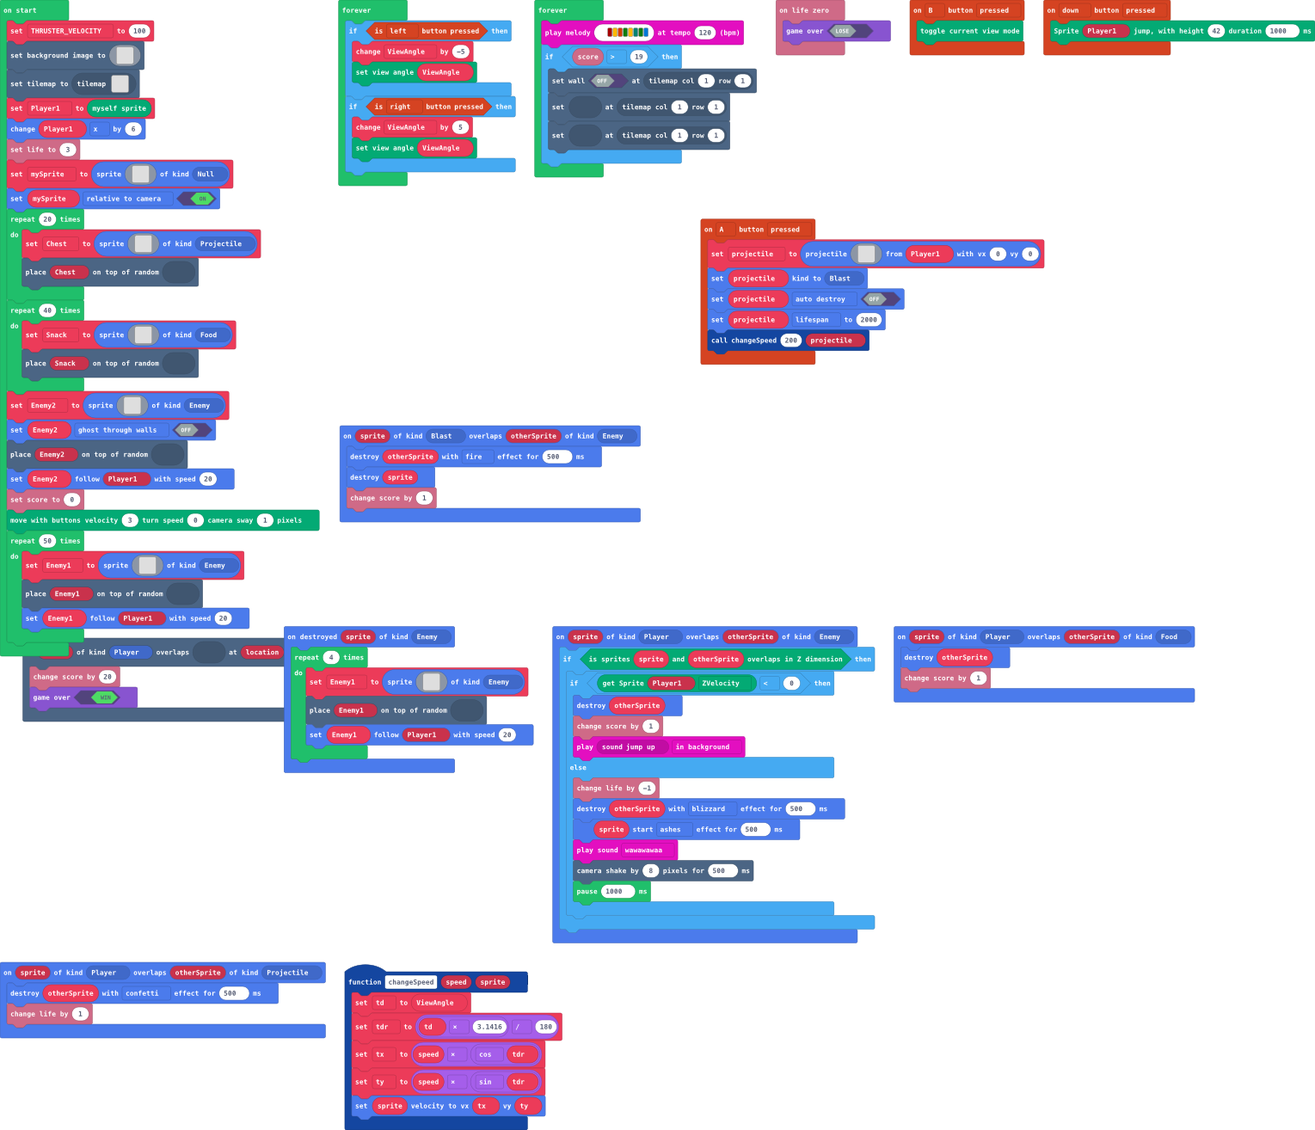
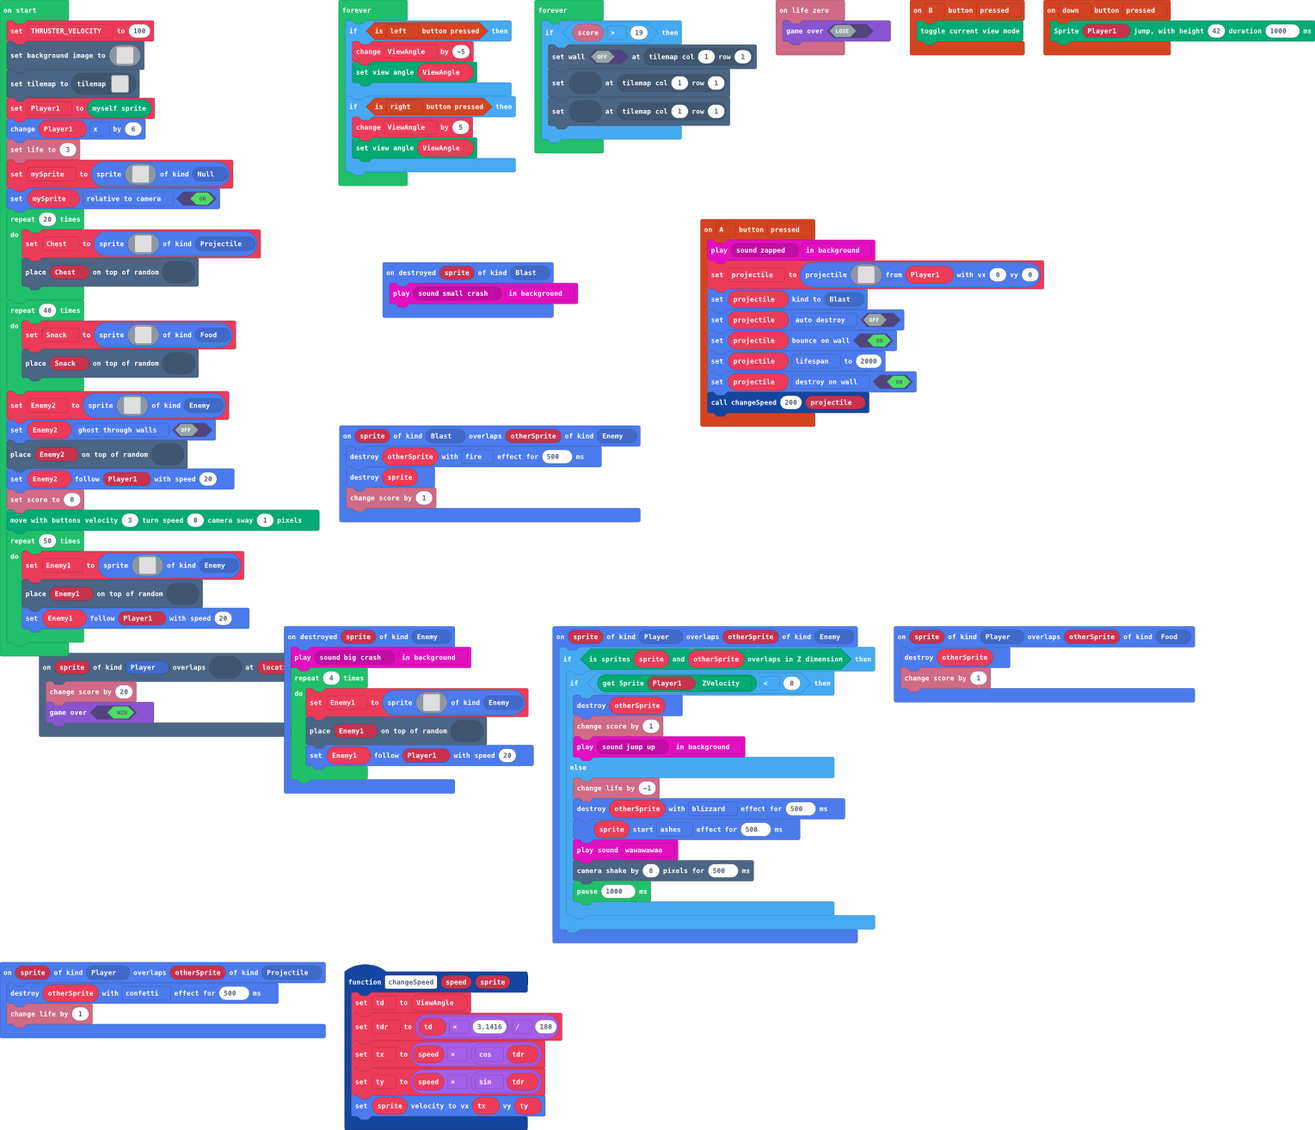
Update main.blocks, main.ts, tilemap.g.jres, tilemap.g.ts

diff --git a/tilemap.g.ts b/tilemap.g.ts
@@ -89,8 +89,27 @@ namespace myTiles {
 . . . . . . . . . . . . . . . . 
 . . . . . . . . . . . . . . . . 
 `, [myTiles.transparency16], TileScale.Sixteen);
+            case "level6":
+            case "level6":return tiles.createTilemap(hex`1000100000000000000000000000000000000000000000000000000000000000000000000000000000000000000000000000000000000000000000000000000000000000000000000000000000000000000000000000000000000000000000000000000000000000000000000000000000000000000000000000000000000000000000000000000000000000000000000000000000000000000000000000000000000000000000000000000000000000000000000000000000000000000000000000000000000000000000000000000000000000000000000000000000000000000000000000000000000000000000000000000000000000000000000000000000000000`, img`
+. . . . . . . . . . . . . . . . 
+. . . . . . . . . . . . . . . . 
+. . . . . . . . . . . . . . . . 
+. . . . . . . . . . . . . . . . 
+. . . . . . . . . . . . . . . . 
+. . . . . . . . . . . . . . . . 
+. . . . . . . . . . . . . . . . 
+. . . . . . . . . . . . . . . . 
+. . . . . . . . . . . . . . . . 
+. . . . . . . . . . . . . . . . 
+. . . . . . . . . . . . . . . . 
+. . . . . . . . . . . . . . . . 
+. . . . . . . . . . . . . . . . 
+. . . . . . . . . . . . . . . . 
+. . . . . . . . . . . . . . . . 
+. . . . . . . . . . . . . . . . 
+`, [myTiles.transparency16], TileScale.Sixteen);
             case "level1":
-            case "level1":return tiles.createTilemap(hex`4600460001010101010101010101010101010101010101010101010101010101010100000000000000000000000000000000000000010101010100000000000000000000000000000000010000000000010000000000000000000000000000000000000000000001000000000000000000000000000000000000000100000001000000000000000101010101010000000101000001000100000000000000010101000100010101010101010100010001010101010101010101010101000000000001000000010000000000000001000000000100000001000000010001000100000001010100000001000000000000000000000100000000000000000000000001000000000000010000000100000000010000010000000001000000010001000100010001000000010000000000010101010101010100000001010100010101010101010101010000000000000100000001000000000000000100000000010000000100010001000100010000000100010000000000000000000001000000000001000100000000000000000000000000000001000000010000000000000001000000000101000001000100010001000100000001000100010101010000000000010000000000010001000000000000000000000000000000010000010100000000000000010000000000010000010001000100000001000000010001000100000100000000000100000100000100010000000000000000000001000000000100000100000000000000000100000000000100000100010001000000010000000100010001000001000000000001000000000001000100000000000000000000000000000001000001000000000000000001000000000001000000000100010000000100000001000101010000010001010101010000000000000001000001010100000000000000000000010000010000000000010000010001010000010000000101000100000001000001010000010000000100010000000000000000000100010000000001010101010101000000000100000100000000000000000100000100000100000001010001000101010101010000000100000001000100000000010100000001000100000000000000000000010100000001000001000000000000000001000001000001000000010000010001000000000000000001000000000000000000000100000000010001000000000000000000000001010000010000010000000000000000010000010000010000000100000100010000000000000000000000000000000001000001000000000100010000000000000000000000000100010101000101010100000000000100000100000100000001000000000100000101010101010101010100000000010000010000000001000100000000000000000000000001010100010000000001000000000001000001000001000000010000000001000000000000000000000001000001000100000100000000010001010101010101010101010000000000000100000000010000000000010000010000010000000100000000010101010101010101010101010000010001010001000000010100000000000000000000000100000000000001000000000100000000000100000100000100000001010101000000000000000000000000000100000100000000010000000101010101010101010101010001000000000000010000000001000000000001000001000001000000010000010101010101010101010101000001000001010101000100000000000000010000000000000100010000000000000100000000010000000000010000010000010000000100000000000000000000000000000000010000010000000001000000000000000100000000000001000100000000000001010100000100000000000100000100000100000001000000000000000000000000000000000100000101010101010000000000010001000000000000010001000000000000000001000001000000000001000001000001000000010000000101010101010101010101010101000001000000000000000000000100010000000000000100010000000000000000010000010101010000010000010000010000000100000001000000000000000000000000000000010001010100000000000001000100000000000101000100000000000000000100000000000100000100000100000100000001000001010000000000000000000000000001000100000000010000000000010001010101010101000001010101010100000001010000000001000001000001000001000000010000010000010101010101010101010101010001000000000100000000000100000000000000000000010000000001000000000100000000010000010001010000010100000100000100000100000000000000000000000000000000000001000001000001000000010101010100000101010100010000000001010000000100000100010000000001000000000001000001000000000000000000000000000000000000010000010000010000000100000001000001000001000100000000000100000001000001000100000000010000000000010000010101010101010101010101010101010101010100000100000100000101000000010100000000010001000000000001000000010000010001000000000100000101010100000000000000000000000000000000000000000000000101000001010101000000000001000000000100010000000000010000000100000100010000000001000000000000000101010101010101010101010101010101010101010101010000000000000000000101010100000001000101000000000100000001000001000100000000010000000000000001000000000000000000000000000000000000000000000100000000000000000101000001000000010000010000010001000000010000010001000000000100000000000000010000000000000000000000000000000000000000000000000000000000000000000000010000000100000100000100010100000100000100010000000001000000000000000101010101010101010101010101010101010100000000000000000100000100000000000100000001000001000001000001000001000001000100000000010000000000000000000000000000000000000000000000000001000000000000000000000001000000000001000000010000010000010000010000010000010001000000000100000000000100000000000000000000000101010101010101010000010000000100000000010101000000010000000100000100000100000100000100000000010000010001000001000000000001010101010101010101000000000000000000000000000000000000000100010101010100000000000001000001000001000001010101000100000000010000000000000000010000000000000000000000000000000000000000010000000000000001000000000000000000000001010000010000010000000000000001000000000100000000000101010100010100000001010101010101010000000000000000000001000000010000000000000000000000010000000100000100000000000000010000000001000000000001000000000001000000010000000000000100000001000000010000000000000100000000000101010101010100000001000001000000000000000100000000010000000000010000000000010101010100000101010101000000000000000100000000000001000000000001000000000000000000010000010000000000000001000000000100000000000100000000000000000000000001000000000000000000000001000101010101010000000000010000000000000000000101000101010101010101010000000001000000000001000000000000000000000000010000000000000101010101010001000000000100000000000100000101010101000000010000000000000000000000000000010000000000010101010100000000000000000101010101010101000000000100000000000000000001010101000100000000010000000100000101010101010101010100000100000000000100000000000000000000000000000000000000000000000001000000000000000000010000000001000100000100000001000001000000000000000001000001000000000001000000000000000000000101010101000000000000000000010101010101010101010100000000010001010001000000010000010000010100000001010000010000000000010000000000000000000001000000010100000000000000000000000000000000000000000000000100000100010000000100000100000101010101010000000100000000000100000000000000000000010000000001000000000000000000000000000101010101010100000001010101000100000001000001000001000000000000000001000000000101010101010100000000000100000000010101010101010101000000000000000000000000000000000000000001000000010000010000010000000000010101010000000000000000000001010101010100000000000000000000000000010000000000000000000000000000000000000000010000000100000100000100000101010100010100000000000000000000000000000000000000000000000000000000000101010101010101010101010101010101010101010100000001000001000001010101000000000000000000000000000000000000010101010101010000000000000000000000000000000000000000000000000000000000000000000000010000010000000000000000000000000000000000000000000001010000000000000101010100000000010100000000000000000000000000000000010000000000000100000101010100000000000000010000010000000000000000000001010000000000000000000001010100000001010000000000000000000001000000000000000000000000000001010000000000000100000100000100000000000000000000010000010100010101010000000001010000000101000000000000000000000000000000000000000000000000000100000001000001000001000001000000000001000000010100000100000000000101000000000101000000010100000001000000000000000000000000000000000000000001000000010000010000010000010000000000000000000100000001000000000000010100000000010100000001010100000000000000000000000100000000010000000000010000000100000100000100000100000000000000000001000000010000010000000001010000000001000000000001000000000000000000000000000000000000000000000100000001000001000001000001000000000000000000010000000100000000000000000101000000010100000000010101010101010101010100000000000000000000000001000000010000010000010000010000000000000000000100000001000000000100000000010000000001000000000001000000000000000001000000000000000000000000010000000100000100000001000100000000000000000001000000010000000101000000000100000000010000000000010000000000000000010000000000000000000000000100000001000001000000010001000000000000000000010000000100000001010001010101000000000100000100000100000000010101000101010101010101010101000001000000010000010000000100010000000000000000000100000001010000000000010100000000000001000000000001000001010100010000000000000000000001000000010000000100000100000001000100000000000000000001010000000001000000000000000000000101000000000000010000010000000001000000000000000000010000000100000001000001000000010001000000000001000000000100000000000101000000000000010100000000000000010100000100000000010000000000000000000000000001000000010000010000000100010000000000000000000001010000000000010101010101010100000000000000000100000001000000000101010101010101010101000000010000000100000100000001000100000000000000000000000101010101000000000000000000000000000000000101000000010000000000000000000000000000000000010100000001000001000000010001000000000000000000000000000000010101010101010100000000000001010100000000000101010101010101010100000000000000000100000000010000010000000000000000000000000000000000000000000000000000000001010101000101010000000000000000000000000000000001010101010101010101010101010100000000000000000000000000000000000000000000010000000000000000000000000000000000000000000001000000000000000000000000000000000000000000000000000000000001000000000000000000000000000000000000000000000000000000000000000000000000000000000000000000000000000000000000000000000000000000000000000000000000000000`, img`
+            case "level1":return tiles.createTilemap(hex`4600460001010101010101010101010101010101010101010101010101010101010100000000000000000000000000000000000000010101010100000000000000000000000000000000010000000000010000000000000000000000000000000000000000000001000000000000000000000000000000000000000100000001000000000000000101010101010000000101000001000100000000000000010101000100010101010101010100010001010101010101010101010101000000000001000000010000000000000001000000000100000001000000010001000100000001010100000001000000000000000000000100000000000000000000000001000000000000010000000100000000010000010000000001000000010001000100010001000000010000000000010101010101010100000001010100010101010101010101010000000000000100000001000000000000000100000000010000000100010001000100010000000100010000000000000000000001000000000001000100000000000000000000000000000001000000010000000000000001000000000101000001000100010001000100000001000100010101010000000000010000000000010001000000000000000000000000000000010000010100000000000000010000000000010000010001000100000001000000010001000100000100000000000100000100000100010000000000000000000001000000000100000100000000000000000100000000000100000100010001000000010000000100010001000001000000000001000000000001000100000000000000000000000000000001000001000000000000000001000000000001000000000100010000000100000001000101010000010001010101010000000000000001000001010100000000000000000000010000010000000000010000010001010000010000000101000100000001000001010000010000000100010000000000000000000100010000000001010101010101000000000100000100000000000000000100000100000100000001010001000101010101010000000100000001000100000000010100000001000100000000000000000000010100000001000001000000000000000001000001000001000000010000010001000000000000000001000000000000000000000100000000010001000000000000000000000001010000010000010000000000000000010000010000010000000100000100010000000000000000000000000000000001000001000000000100010000000000000000000000000100010101000101010100000000000100000100000100000001000000000100000101010101010101010100000000010000010000000001000100000000000000000000000001010100010000000001000000000001000001000001000000010000000001000000000000000000000001000001000100000100000000010001010101010101010101010000000000000100000000010000000000010000010000010000000100000000010101010101010101010101010000010001010001000000010100000000000000000000000100000000000001000000000100000000000100000100000100000001010101000000000000000000000000000100000100000000010000000101010101010101010101010001000000000000010000000001000000000001000001000001000000010000010101010101010101010101000001000001010101000100000000000000010000000000000100010000000000000100000000010000000000010000010000010000000100000000000000000000000000000000010000010000000001000000000000000100000000000001000100000000000001010100000100000000000100000100000100000001000000000000000000000000000000000100000101010101010000000000010001000000000000010001000000000000000001000001000000000001000001000001000000010000000101010101010101010101010101000001000000000000000000000100010000000000000100010000000000000000010000010101010000010000010000010000000100000001000000000000000000000000000000010001010100000000000001000100000000000101000100000000000000000100000000000100000100000100000100000001000001010000000000000000000000000001000100000000010000000000010001010101010101000001010101010100000001010000000001000001000001000001000000010000010000010101010101010101010101010001000000000100000000000100000000000000000000010000000001000000000100000000010000010001010000010100000100000100000100000000000000000000000000000000000001000001000001000000010101010100000101010100010000000001010000000100000100010000000001000000000001000001000000000000000000000000000000000000010000010000010000000100000001000001000001000100000000000100000001000001000100000000010000000000010000010101010101010101010101010101010101010100000100000100000101000000010100000000010001000000000001000000010000010001000000000100000101010100000000000000000000000000000000000000000000000101000001010101000000000001000000000100010000000000010000000100000100010000000001000000000000000101010101010101010101010101010101010101010101010000000000000000000101010100000001000101000000000100000001000001000100000000010000000000000001000000000000000000000000000000000000000000000100000000000000000101000001000000010000010000010001000000010000010000000000000100000000000000010000000000000000000000000000000000000000000000000000000000000000000000010000000100000100000100010100000100000100010000000001000000000000000101010101010101010101010101010101010000000000000000000100000100000000000100000001000001000001000001000001000001000100000000010000000000000000000000000000000000000000000000000000000000000000000000000001000000000001000000010000010000010000010000010000010001000000000100000000000100000000000000000000000101010101010101010000010000000100000000010101000000010000000100000100000100000100000100000000010000010001000001000000000001010101010101010101000000000000000000000000000000000000000100010101010100000000000001000001000001000001010101000100000000010000000000000000010000000000000000000000000000000000000000010000000000000001000000000000000000000001010000010000010000000000000001000000000100000000000101010100010100000001010101010101010000000000000000000001000000010000000000000000000000010000000100000100000000000000010000000001000000000001000000000001000000010000000000000100000001000000010000000000000100000000000101010101010100000001000001000000000000000100000000010000000000010000000000010101010100000101010101000000000000000100000000000001000000000001000000000000000000010000010000000000000001000000000000000000000100000000000000000000000001000000000000000000000001000101010101010000000000010000000000000000000101000101010101010101010000000001000000000001000000000000000000000000010000000000000101010101010001000000000100000000000100000101010101000000010000000000000000000000000000010000000000010101010100000000000000000101010101010101000000000100000000000000000001010101000100000000010000000100000101010101010101010100000100000000000100000000000000000000000000000000000000000000000001000000000000000000010000000001000100000100000001000001000000000000000001000001000000000001000000000000000000000101010101000000000000000000010101010101010101010100000000010001010001000000010000010000010100000001010000010000000000010000000000000000000001000000010100000000000000000000000000000000000000000000000100000100010000000100000100000101010101010000000100000000000100000000000000000000010000000001000000000000000000000000000101010101010100000001010101000100000001000001000001000000000000000001000000000101010101010100000000000100000000010101010101010101000000000000000000000000000000000000000001000000010000010000010000000000010101010000000000000000000001010101010100000000000000000000000000010000000000000000000000000000000000000000010000000100000100000100000101010100010100000000000000000000000000000000000000000000000000000000000101010101010101010101010101010101010101010100000001000001000001010101000000000000000000000000000000000000010101010101010000000000000000000000000000000000000000000000000000000000000000000000010000010000000000000000000000000000000000000000000001010000000000000101010100000000010100000000000000000000000000000000010000000000000100000101010100000000000000010000010000000000000000000001010000000000000000000001010100000001010000000000000000000001000000000000000000000000000001010000000000000100000100000100000000000000000000010000010100010101010000000001010000000101000000000000000000000000000000000000000000000000000100000001000001000001000001000000000001000000010100000100000000000101000000000101000000010100000001000000000000000000000000000000000000000001000000010000010000010000010000000000000000000100000001000000000000010100000000010100000001010100000000000000000000000100000000010000000000010000000100000100000100000100000000000000000001000000010000010000000001010000000001000000000001000000000000000000000000000000000000000000000100000001000001000001000001000000000000000000010000000100000000000000000101000000010100000000010101010101010101010100000000000000000000000001000000010000010000010000010000000000000000000100000001000000000100000000010000000001000000000001000000000000000001000000000000000000000000010000000100000100000001000100000000000000000001000000010000000101000000000100000000010000000000010000000000000000010000000000000000000000000100000001000001000000010001000000000000000000010000000100000001010001010101000000000100000100000100000000010101000101010101010101010101000001000000010000010000000100010000000000000000000100000001010000000000010100000000000001000000000001000001010100010000000000000000000001000000010000000100000100000001000100000000000000000001010000000001000000000000000000000101000000000000010000010000000001000000000000000000010000000100000001000001000000010001000000000001000000000100000000000101000000000000010100000000000000010100000000000000010000000000000000000000000001000000010000010000000100010000000000000000000001010000000000010101010101010100000000000000000100000001000000000101010101010101010101000000010000000100000100000001000100000000000000000000000101010101000000000000000000000000000000000101000000010000000000000000000000000000000000010100000001000001000000010001000000000000000000000000000000010101010101010100000000000001010100000000000101010101010101010100000000000000000100000000010000010000000000000000000000000000000000000000000000000000000001010101000101010000000000000000000000000000000001010101010101010101010101010100000000000000000000000000000000000000000000010000000000000000000000000000000000000000000001000000000000000000000000000000000000000000000000000000000001000000000000000000000000000000000000000000000000000000000000000000000000000000000000000000000000000000000000000000000000000000000000000000000000000000`, img`
 222222222222222222222222222222...................22222................
 2.....2......................2...................2...2.......222222...
 22..2.2.......222.2.22222222.2.2222222222222.....2...2.......2....2...
@@ -121,16 +140,16 @@ namespace myTiles {
 ....2..22222222222222222222..2..2..22...22....2.2.....2...2..2.2....2.
 .2222.......................22..2222.....2....2.2.....2...2..2.2....2.
 ......222222222222222222222222.........2222...2.22....2...2..2.2....2.
-......2......................2........22..2...2..2..2.2...2..2.2....2.
+......2......................2........22..2...2..2..2.2...2..2......2.
 ......2...................................2...2..2..2.22..2..2.2....2.
-......2222222222222222222........2..2.....2...2..2..2..2..2..2.2....2.
-........................2...........2.....2...2..2..2..2..2..2.2....2.
+......222222222222222222.........2..2.....2...2..2..2..2..2..2.2....2.
+....................................2.....2...2..2..2..2..2..2.2....2.
 ....2...........222222222..2...2....222...2...2..2..2..2..2....2..2.2.
 .2.....2222222222...................2.22222......2..2..2..2222.2....2.
 .......2....................2.......2...........22..2..2.......2....2.
 ....2222.22...22222222..........2...2...........2...2..2.......2....2.
 ....2.....2...2......2...2...2......2.....2222222...2..2.......2....2.
-....2.....22222..22222.......2......2.....2.........2..2.......2....2.
+....2.....22222..22222.......2......2.....2.........2..2.......2......
 ....2............2...........2.222222.....2.........22.222222222....2.
 ....2............2......222222.2....2.....2..22222...2..............2.
 ....22222........22222222....2.........2222.2....2...2..2222222222..2.
@@ -154,7 +173,7 @@ namespace myTiles {
 .......2...2...22.2222....2..2..2....222.22222222222..2...2..2...2.2..
 .......2...22.....22......2.....2..222.2..........2...2...2..2...2.2..
 .......22....2..........22......2..2....2.........2...2...2..2...2.2..
-...2....2.....22......22.......22..2....2.............2...2..2...2.2..
+...2....2.....22......22.......22.......2.............2...2..2...2.2..
 ........22.....22222222........2...2....22222222222...2...2..2...2.2..
 .........22222................22...2.................22...2..2...2.2..
 .............22222222......222.....2222222222........2....2..2........

diff --git a/main.ts b/main.ts
@@ -16,6 +16,7 @@ sprites.onOverlap(SpriteKind.Blast, SpriteKind.Enemy, function (sprite, otherSpr
     info.changeScoreBy(1)
 })
 controller.A.onEvent(ControllerButtonEvent.Pressed, function () {
+    music.play(music.melodyPlayable(music.zapped), music.PlaybackMode.InBackground)
     projectile = sprites.createProjectileFromSprite(img`
         . . . . . . . . . . . . . . . . 
         . . . . . . . . . . . . . . . . 
@@ -36,8 +37,13 @@ controller.A.onEvent(ControllerButtonEvent.Pressed, function () {
         `, Player1, 0, 0)
     projectile.setKind(SpriteKind.Blast)
     projectile.setFlag(SpriteFlag.AutoDestroy, false)
+    projectile.setBounceOnWall(true)
     projectile.lifespan = 2000
+    projectile.setFlag(SpriteFlag.DestroyOnWall, true)
     changeSpeed(200, projectile)
+})
+sprites.onDestroyed(SpriteKind.Blast, function (sprite) {
+    music.play(music.melodyPlayable(music.smallCrash), music.PlaybackMode.InBackground)
 })
 sprites.onOverlap(SpriteKind.Player, SpriteKind.Projectile, function (sprite, otherSprite) {
     otherSprite.destroy(effects.confetti, 500)
@@ -61,6 +67,7 @@ sprites.onOverlap(SpriteKind.Player, SpriteKind.Food, function (sprite, otherSpr
     info.changeScoreBy(1)
 })
 sprites.onDestroyed(SpriteKind.Enemy, function (sprite) {
+    music.play(music.melodyPlayable(music.bigCrash), music.PlaybackMode.InBackground)
     for (let index = 0; index < 4; index++) {
         Enemy1 = sprites.create(img`
             ........................
@@ -378,7 +385,6 @@ forever(function () {
     }
 })
 forever(function () {
-    music.playMelody("C5 A B G A F G E ", 120)
     if (info.score() > 19) {
         tiles.setWallAt(tiles.getTileLocation(1, 1), false)
         tiles.setTileAt(tiles.getTileLocation(1, 1), assets.tile`transparency16`)
